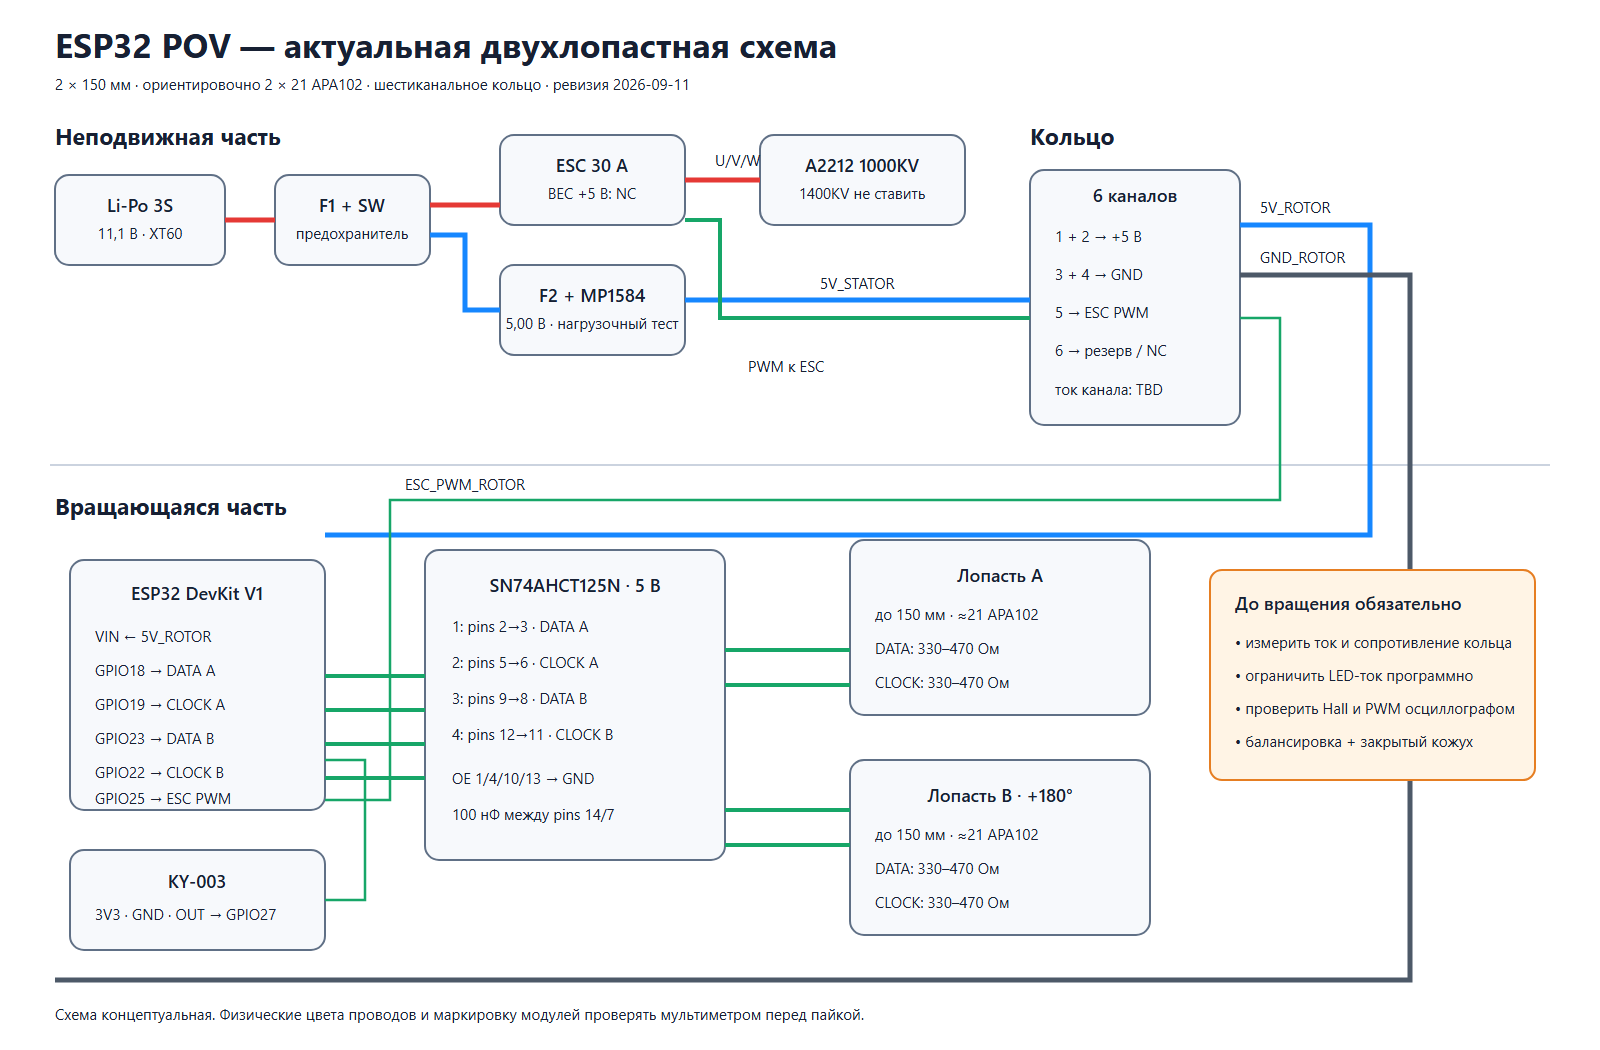
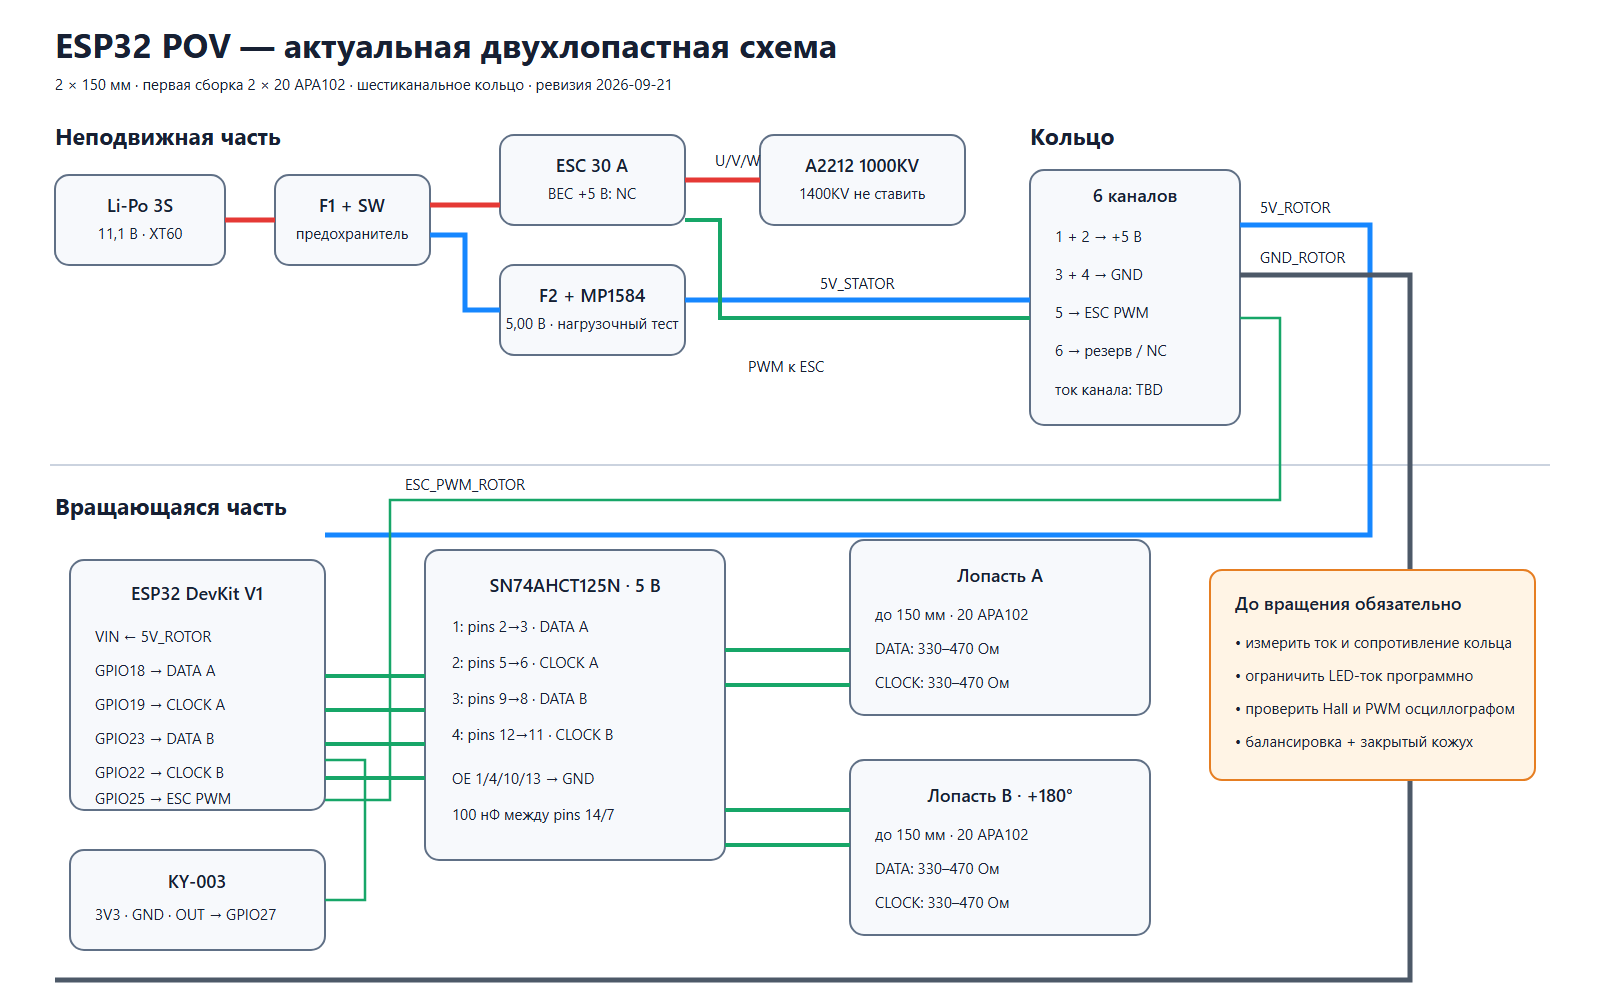
syncing docs

diff --git a/hardware/easyeda/generate-draft.js b/hardware/easyeda/generate-draft.js
@@ -234,14 +234,14 @@ function rotorSheet() {
     "pin 2 GND_ROTOR",
     "pin 3 DATA_A -> DI",
     "pin 4 CLOCK_A -> CI",
-    "approx. 21 LEDs / verify",
+    "20 LEDs default / verify if 21 fit",
   ], { color: "#AA0000" });
   block(s, 1080, 390, 250, 190, "JLB", "APA102 BLADE B", [
     "pin 1 +5V_ROTOR",
     "pin 2 GND_ROTOR",
     "pin 3 DATA_B -> DI",
     "pin 4 CLOCK_B -> CI",
-    "approx. 21 LEDs / verify",
+    "20 LEDs default / verify if 21 fit",
   ], { color: "#AA0000" });
   wire([[1200, 120], [1200, 180]]);
   wire([[1230, 120], [1230, 390]]);

diff --git a/docs/bring-up-plan.md b/docs/bring-up-plan.md
@@ -11,8 +11,8 @@
 3. **MP1584** — выполнить [`tests/mp1584-protocol.md`](../tests/mp1584-protocol.md): настроить 5,00 В и провести ступенчатый нагрузочный тест без электроники.
 4. **SN74AHCT125** — проверить питание 5 В и четыре выходных канала без LED.
 5. **Один APA102** — проверить DATA/CLOCK каждой будущей лопасти.
-6. **Одна лопасть, 21 LED** — ограничить LED-ток до 0,50 А, контролировать 5 В и нагрев.
-7. **Две лопасти, 42 LED без вращения** — ограничить LED-ток до 0,90 А суммарно.
+6. **Одна лопасть, 20 LED** — ограничить LED-ток до 0,50 А, контролировать 5 В и нагрев.
+7. **Две лопасти, 40 LED без вращения** — ограничить LED-ток до 0,90 А суммарно.
 8. **Кольцо** — прозвонка, сопротивление, нагрузочный тест 5 В и проверка PWM при ручном вращении.
 9. **Мотор без ротора** — определить направление, ток и минимальные устойчивые обороты.
 10. **Полная статическая сборка** — фиксация проводов, крепежа, статическая и динамическая балансировка.

diff --git a/mechanical/cad/README.md b/mechanical/cad/README.md
@@ -7,7 +7,7 @@
 ## Отражено в модели
 
 - две симметричные лопасти с активной длиной 150 мм;
-- по 21 условному светодиоду на лопасть;
+- по 20 условных светодиодов на лопасть; 21 допускается после измерения;
 - центральная несущая балка;
 - условные объёмы ступицы, мотора, кольца и электроники;
 - запас между концом лопасти и внешним габаритом кожуха;

diff --git a/docs/architecture-and-wiring.md b/docs/architecture-and-wiring.md
@@ -15,8 +15,8 @@ flowchart LR
   BUCK --> SR[Кольцо: 1+2 = 5 V; 3+4 = GND]
   SR --> ESP[ESP32 на роторе]
   ESP --> BUF[SN74AHCT125]
-  BUF --> A[APA102 A: 21 LED]
-  BUF --> B[APA102 B: 21 LED]
+  BUF --> A[APA102 A: 20 LED default]
+  BUF --> B[APA102 B: 20 LED default]
   H[KY-003] --> ESP
   ESP -->|GPIO25, канал 5| ESC
 ```
